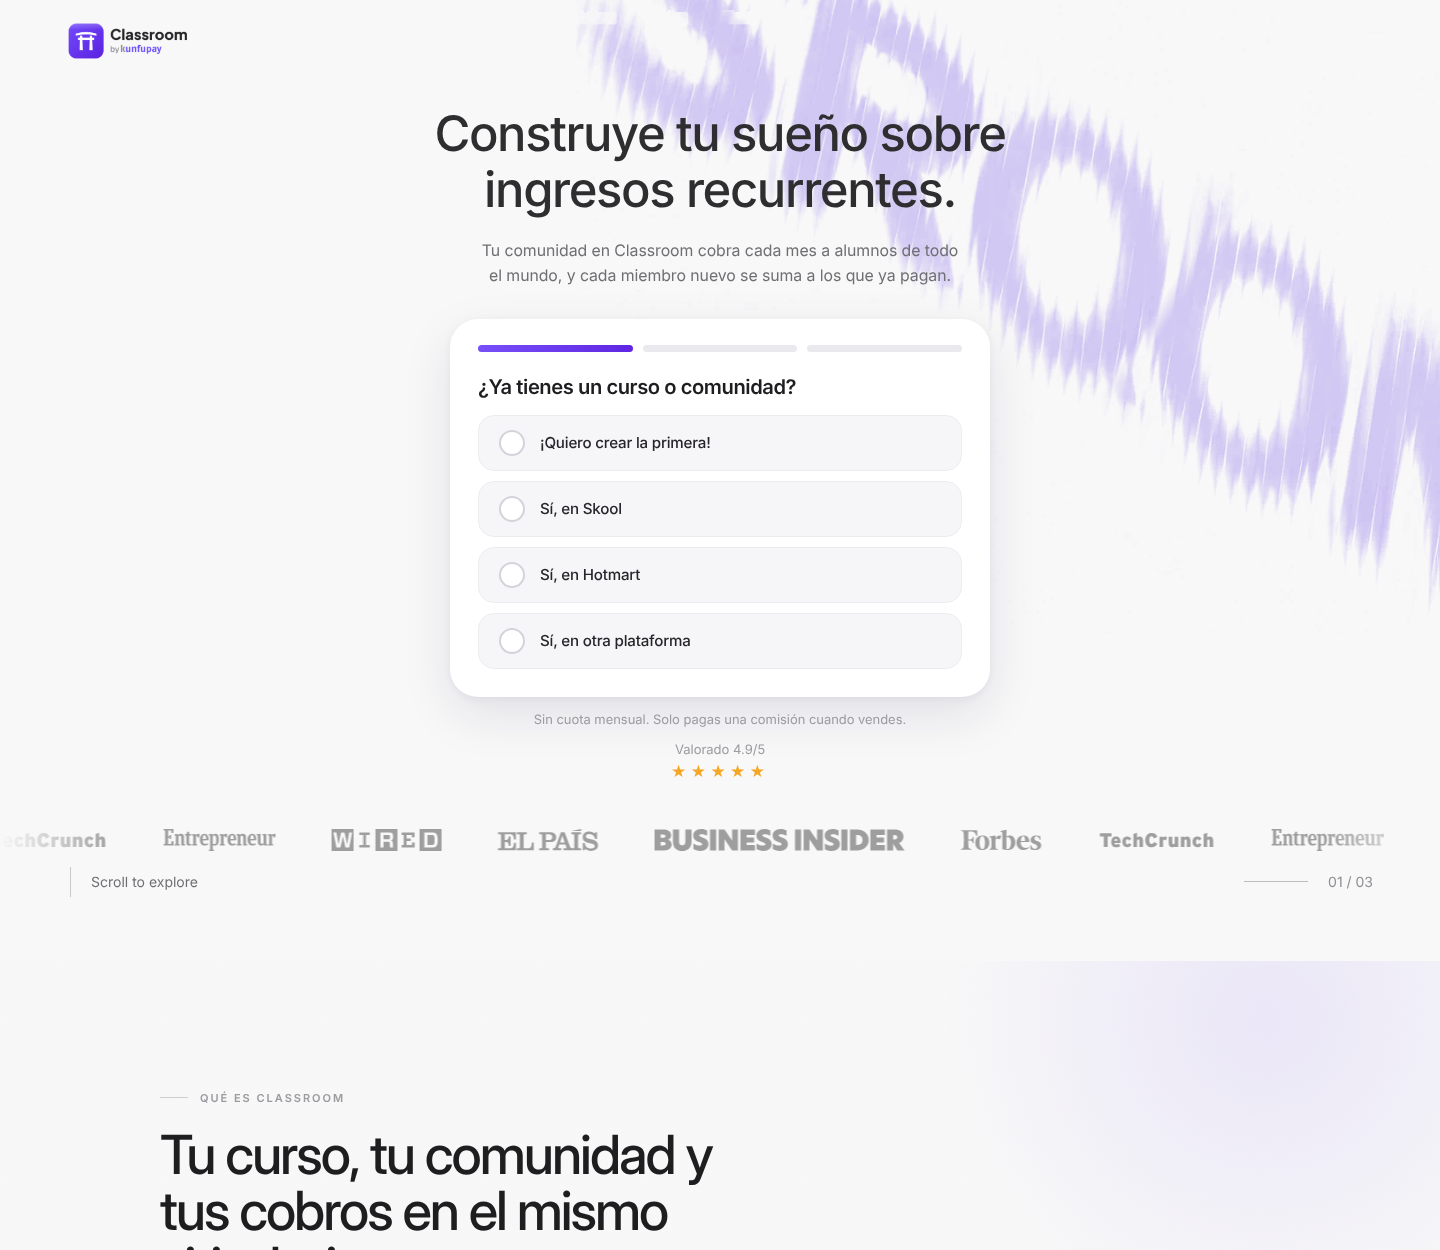
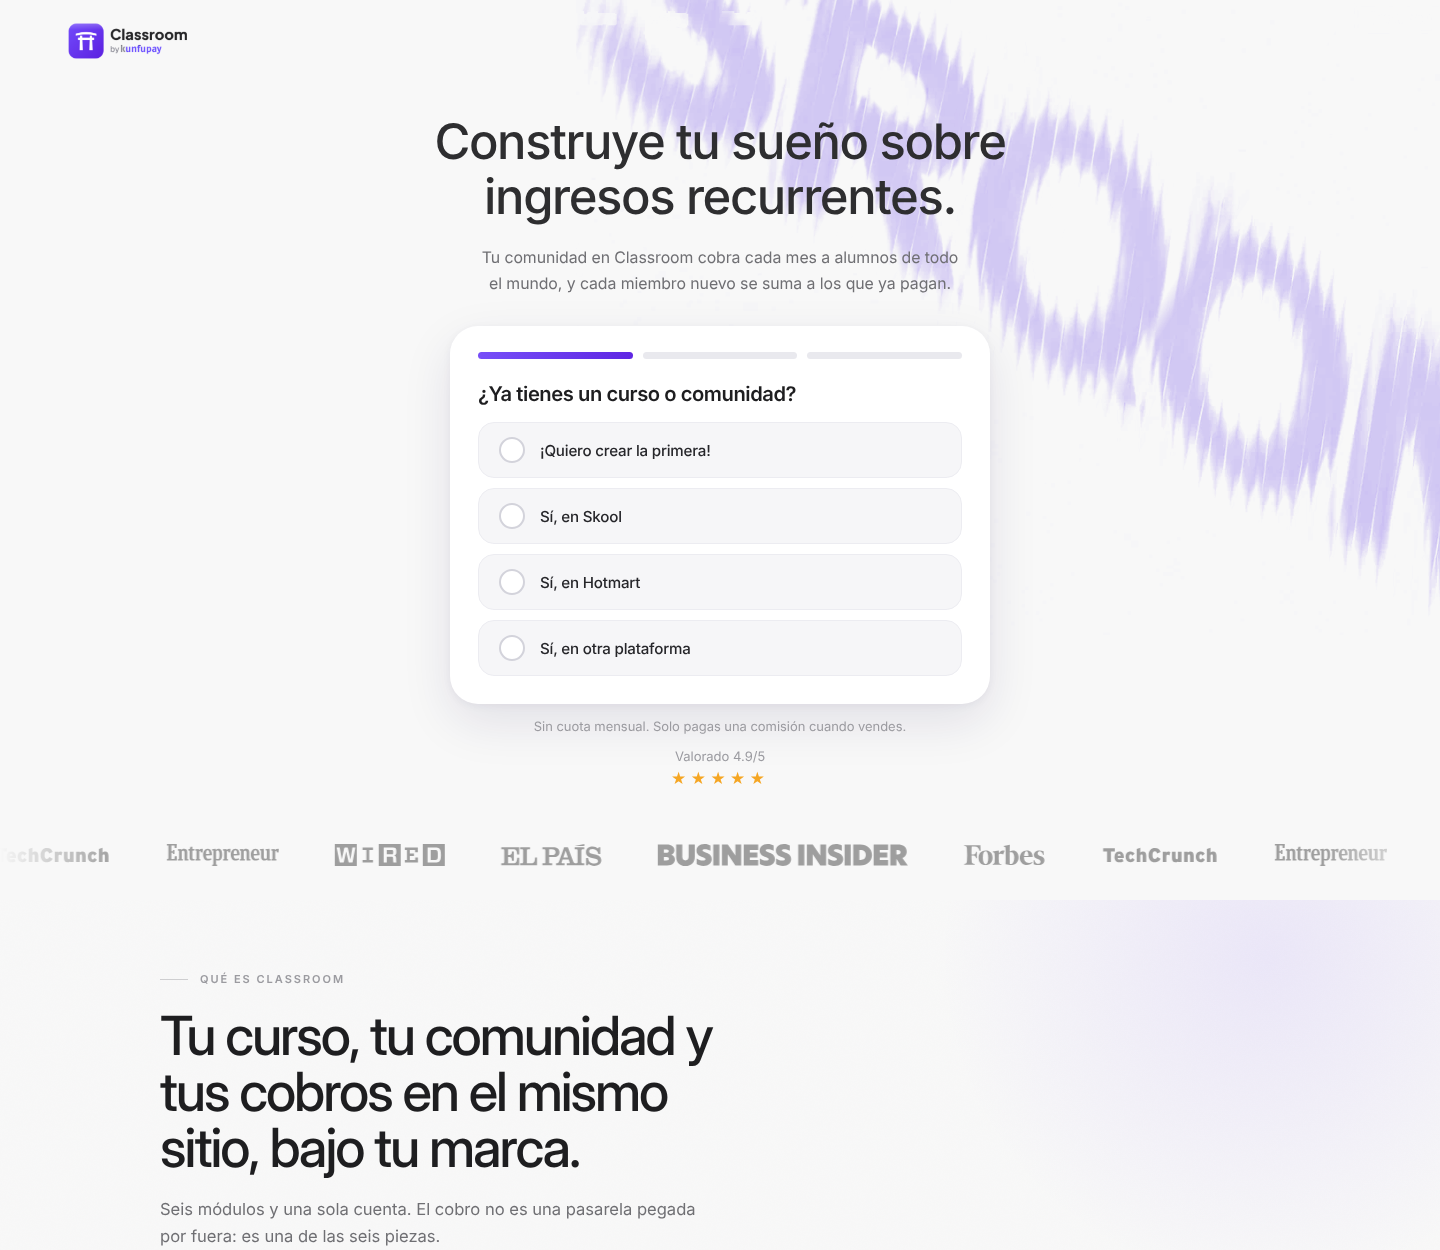
Ajusta el hero, la factura y la comparativa
Hero: fuera «Scroll to explore» y el «01 / 03», y la cinta de prensa pasa a
34 px de aire inferior, así la primera sección entra justo después en vez de
dejar media pantalla vacía.

Factura: las filas pasan a nombrar lo que la gente paga hoy —Shopify o
Stripe, Linktree Pro, Carrd o Leadpages, Kajabi/Skool/Hotmart, Revolut,
ChatGPT Plus y el alta de autónomo— con una etiqueta pequeña de qué cubre
cada una. El cero gigante lleva el símbolo de moneda en morado para que se
lea como precio y no como número suelto.

Comparativa: la columna de la izquierda queda apagada, con filetes y en gris,
y lo nuestro se va a un panel negro con las marcas en morado, su propio botón
blanco y un disco «vs» sobre la línea que las separa.

Los botones de sección van centrados y sin repetir debajo la misma letra
chica: solo la mantienen el formulario del hero y el cierre. Y los logos de
métodos de pago recuperan su color.

Claude-Session: https://claude.ai/code/session_01BnffaNzGrJ5zZy9uWCipoB

diff --git a/classroom-landing/index.html b/classroom-landing/index.html
@@ -284,7 +284,7 @@ body{
 .press{
   position:relative;
   z-index:1;
-  padding-bottom:110px;
+  padding-bottom:34px;
   overflow:hidden;
   -webkit-mask-image:linear-gradient(to right,transparent,#000 8%,#000 92%,transparent);
   mask-image:linear-gradient(to right,transparent,#000 8%,#000 92%,transparent);
@@ -311,20 +311,6 @@ body{
 }
 
 /* ---------- pie del hero ---------- */
-.hero-foot{
-  position:absolute;
-  left:0;right:0;bottom:64px;
-  z-index:1;
-  display:flex;
-  justify-content:space-between;
-  align-items:center;
-  padding:0 67px 0 70px;
-  pointer-events:none;
-}
-.hero-foot div{display:flex;align-items:center;gap:20px;font-size:14px;color:var(--muted)}
-.hero-foot .bar{width:1px;height:30px;background:#c9c9cc}
-.hero-foot .line{width:64px;height:1px;background:#bdbdc0}
-.hero-foot .pager{color:#8e8e93}
 
 /* ---------- móvil ---------- */
 @media (max-width:900px){
@@ -343,7 +329,6 @@ body{
   .press{padding-bottom:40px}
   .press__track{gap:38px}
   .press__track img{height:15px}
-  .hero-foot{display:none}
 }
 
 @media (prefers-reduced-motion:reduce){
@@ -362,8 +347,9 @@ body{
 }
 
 .wrap{width:min(1120px,100% - 56px);margin-inline:auto;position:relative;z-index:1}
-.block{position:relative;padding:clamp(76px,9vw,150px) 0}
+.block{position:relative;padding:clamp(64px,7vw,118px) 0}
 .block + .block{border-top:1px solid var(--line-2)}
+#producto{padding-top:clamp(42px,5vw,78px)}
 .block--tint{background:#f4f3f9}
 .block--ink{background:#0e0d12;color:#fff;border-top:0}
 .block::after{  /* textura fina, nada de degradados de IA */
@@ -446,8 +432,9 @@ html.js .kin.is-in .w{opacity:1;transform:none}
 .bill__dots{flex:1;border-bottom:1px dotted #cfccdb;transform:translateY(-4px)}
 .bill__row span:last-child{font-size:14.5px;color:var(--faint);font-variant-numeric:tabular-nums}
 .bill__row--own span:first-child{color:var(--ink-strong);font-weight:500}
-.bill__row--own em{margin-left:10px;font-style:normal;font-size:11px;letter-spacing:.1em;
-  text-transform:uppercase;color:var(--acc)}
+.bill__row em{margin-left:9px;font-style:normal;font-size:11px;letter-spacing:.1em;
+  text-transform:uppercase;color:#b2aec0}
+.bill__row--own em{color:var(--acc)}
 .bill__row--own span:last-child{color:var(--ink-soft)}
 .bill__total{display:flex;align-items:baseline;gap:12px;padding:20px 0 0;margin-top:4px;
   border-top:1px solid var(--ink-strong)}
@@ -458,7 +445,7 @@ html.js .kin.is-in .w{opacity:1;transform:none}
 .bill__ours{padding-top:6px}
 .bill__big{font-family:'Inter Display','Inter',sans-serif;font-size:clamp(76px,11vw,148px);font-weight:500;
   line-height:.84;letter-spacing:-.06em;color:var(--ink-strong);font-variant-numeric:tabular-nums}
-.bill__big sup{font-size:.2em;font-weight:500;letter-spacing:-.01em;vertical-align:super;color:var(--acc)}
+.bill__big sup{font-size:.26em;font-weight:500;letter-spacing:-.01em;top:-.55em;position:relative;color:var(--acc)}
 .bill__k{margin-top:18px;font-size:17px;line-height:1.5;color:var(--ink-soft);max-width:34ch}
 .bill__k b{color:var(--ink-strong);font-weight:500}
 .facts{display:flex;flex-wrap:wrap;gap:0;margin-top:clamp(36px,4vw,54px);border-top:1px solid var(--line)}
@@ -496,17 +483,28 @@ html.js .kin.is-in .w{opacity:1;transform:none}
 .player__list button[aria-current="true"] .bar{animation:fill var(--dur,4200ms) linear forwards}
 @keyframes fill{from{width:0}to{width:100%}}
 
-/* --- 4 · duelo en dos columnas --- */
-.duel{display:grid;grid-template-columns:1fr 1fr;margin-top:clamp(44px,5vw,70px);border-top:1px solid var(--line)}
-.duel__col{padding:28px 32px 32px 0}
-.duel__col + .duel__col{padding:28px 0 32px 32px;border-left:1px solid var(--line)}
-.duel__h{font-size:11px;letter-spacing:.16em;text-transform:uppercase;color:var(--faint);margin-bottom:22px}
-.duel__col--win .duel__h{color:var(--acc)}
-.duel li{display:flex;gap:14px;padding:14px 0;border-bottom:1px solid var(--line-2);
-  font-size:15.5px;line-height:1.45;color:var(--muted);list-style:none}
-.duel__col--win li{color:var(--ink-soft)}
-.duel li::before{content:"—";flex:none;color:#c6c3d2;font-size:13px;line-height:1.5}
-.duel__col--win li::before{content:"✓";color:var(--acc);font-size:12px;font-weight:700}
+/* --- 4 · duelo: lista apagada contra panel oscuro --- */
+.duel{position:relative;display:grid;grid-template-columns:1fr 1fr;gap:clamp(26px,4vw,64px);
+  margin-top:clamp(44px,5vw,70px);align-items:start}
+.duel__h{font-size:11px;letter-spacing:.16em;text-transform:uppercase;color:var(--faint);margin-bottom:6px}
+.duel__hoy{padding-top:26px;border-top:1px solid var(--line)}
+.duel__hoy li{display:flex;gap:14px;padding:16px 0;border-bottom:1px solid var(--line-2);
+  font-size:15.5px;line-height:1.45;color:#8f8b9c;list-style:none}
+.duel__hoy li::before{content:"";flex:none;width:13px;height:1px;background:#c6c3d2;margin-top:11px}
+.duel__panel{position:relative;padding:clamp(28px,3vw,40px);border-radius:14px;background:#121016;color:#fff;
+  margin-top:-10px;box-shadow:0 34px 80px rgba(18,16,22,.16)}
+.duel__panel::after{content:"";position:absolute;inset:0;border-radius:14px;pointer-events:none;
+  background-image:var(--grain);opacity:.06;mix-blend-mode:screen}
+.duel__panel .duel__h{color:#b49bff;margin-bottom:10px}
+.duel__panel ul{position:relative;z-index:1}
+.duel__panel li{display:flex;gap:14px;padding:16px 0;border-bottom:1px solid rgba(255,255,255,.1);
+  font-size:15.5px;line-height:1.45;color:#eceaf3;list-style:none}
+.duel__panel li:last-of-type{border-bottom:0}
+.duel__panel li::before{content:"✓";flex:none;color:#b49bff;font-size:12px;font-weight:700;line-height:1.5}
+.duel__panel .cta{position:relative;z-index:1;margin-top:22px}
+.duel__vs{position:absolute;left:50%;top:76px;transform:translate(-50%,-50%);z-index:3;
+  width:44px;height:44px;border-radius:50%;background:#fff;border:1px solid var(--line);
+  display:grid;place-items:center;font-size:11px;letter-spacing:.1em;text-transform:uppercase;color:var(--faint)}
 
 /* --- testimonios editoriales --- */
 .quotes{display:grid;grid-template-columns:repeat(3,1fr);margin-top:clamp(40px,4.5vw,64px);
@@ -529,8 +527,8 @@ html.js .kin.is-in .w{opacity:1;transform:none}
   mask-image:linear-gradient(90deg,transparent,#000 10%,#000 90%,transparent)}
 .tira__track{display:flex;align-items:center;gap:52px;width:max-content;animation:tira 46s linear infinite}
 .tira:hover .tira__track{animation-play-state:paused}
-.tira img{flex:none;height:20px;width:auto;filter:brightness(0) invert(.68);transition:filter .25s ease}
-.tira:hover img{filter:brightness(0) invert(.5)}
+.tira img{flex:none;height:22px;width:auto;opacity:.92;transition:opacity .25s ease,transform .25s ease}
+.tira img:hover{opacity:1;transform:translateY(-2px)}
 @keyframes tira{from{transform:translateX(0)}to{transform:translateX(-50%)}}
 
 /* --- 5 · faq oscura --- */
@@ -582,9 +580,9 @@ html.js .kin.is-in .w{opacity:1;transform:none}
   .mods{grid-template-columns:1fr}
   .mods > article{border-right:0 !important;padding:24px 0 26px}
   .mods .mk{right:2px;top:26px}
-  .duel{grid-template-columns:1fr}
-  .duel__col{padding:24px 0 26px}
-  .duel__col + .duel__col{padding:24px 0 26px;border-left:0;border-top:1px solid var(--line)}
+  .duel{grid-template-columns:1fr;gap:34px}
+  .duel__vs{position:static;transform:none;margin:0 auto}
+  .duel__panel{margin-top:0}
   .facts div{flex:1 1 100%;border-right:0;padding-right:0}
   .sticky{display:block}
   body{padding-bottom:78px}
@@ -765,10 +763,6 @@ html.js .kin.is-in .w{opacity:1;transform:none}
   </div>
 </section>
 
-<div class="hero-foot">
-  <div><span class="bar"></span><span>Scroll to explore</span></div>
-  <div><span class="line"></span><span class="pager">01 / 03</span></div>
-</div>
 </div><!-- /hero-shell -->
 
 <!-- ====================== 1 · PRODUCTO ====================== -->
@@ -800,11 +794,10 @@ html.js .kin.is-in .w{opacity:1;transform:none}
     <p class="quoteline rv">Y de aquí sale el «cada mes» del titular: <b>puedes crear links de pago único
       y suscripciones recurrentes desde el mismo panel.</b></p>
 
-    <div class="cta-wrap rv">
+    <div class="cta-wrap cta-wrap--center rv">
       <button class="cta cta--acc js-abrir-quiz" data-origen="producto">Crear mi Classroom
         <svg viewBox="0 0 16 16" fill="none" aria-hidden="true"><path d="M2 8h11M9 4l4 4-4 4"
           stroke="currentColor" stroke-width="1.6" stroke-linecap="round" stroke-linejoin="round"/></svg></button>
-      <p class="cta-nota">Sin cuota mensual · Sin permanencia · Alta en minutos</p>
     </div>
   </div>
 </section>
@@ -821,20 +814,20 @@ html.js .kin.is-in .w{opacity:1;transform:none}
 
     <div class="bill">
       <div class="bill__list rv">
-        <div class="bill__row"><span>Tienda</span><i class="bill__dots"></i><span>39 $/mes</span></div>
-        <div class="bill__row"><span>BioLink</span><i class="bill__dots"></i><span>15 $/mes</span></div>
-        <div class="bill__row"><span>Páginas</span><i class="bill__dots"></i><span>25 $/mes</span></div>
-        <div class="bill__row bill__row--own"><span>Classroom <em>la que vienes a buscar</em></span><i class="bill__dots"></i><span>99 $/mes</span></div>
-        <div class="bill__row"><span>KunfuCard</span><i class="bill__dots"></i><span>10 $/mes</span></div>
-        <div class="bill__row"><span>Sensei</span><i class="bill__dots"></i><span>20 $/mes</span></div>
-        <div class="bill__row"><span>Cuota de autónomo</span><i class="bill__dots"></i><span>300 $/mes</span></div>
-        <div class="bill__total"><span>Montarlo por separado</span>
+        <div class="bill__row"><span>Shopify o Stripe <em>tu tienda</em></span><i class="bill__dots"></i><span>39 $/mes</span></div>
+        <div class="bill__row"><span>Linktree Pro <em>tu bio</em></span><i class="bill__dots"></i><span>15 $/mes</span></div>
+        <div class="bill__row"><span>Carrd o Leadpages <em>tus páginas</em></span><i class="bill__dots"></i><span>25 $/mes</span></div>
+        <div class="bill__row bill__row--own"><span>Kajabi, Skool o Hotmart <em>tu aula</em></span><i class="bill__dots"></i><span>99 $/mes</span></div>
+        <div class="bill__row"><span>Revolut <em>tu tarjeta</em></span><i class="bill__dots"></i><span>10 $/mes</span></div>
+        <div class="bill__row"><span>ChatGPT Plus <em>tu IA</em></span><i class="bill__dots"></i><span>20 $/mes</span></div>
+        <div class="bill__row"><span>Alta de autónomo <em>para facturar</em></span><i class="bill__dots"></i><span>300 $/mes</span></div>
+        <div class="bill__total"><span>Lo que pagas hoy por separado</span>
           <b><span class="count" data-to="508">0</span> $/mes</b></div>
       </div>
 
       <div class="bill__ours rv" style="--d:120ms">
-        <p class="bill__big">0</p>
-        <p class="bill__k">de cuota al mes. Las siete herramientas vienen en la misma cuenta que tu
+        <p class="bill__big">0<sup>$</sup></p>
+        <p class="bill__k">al mes de cuota. Las siete piezas vienen en la misma cuenta que tu
           Classroom, y la comisión <b>solo entra cuando entra una venta</b>.</p>
       </div>
     </div>
@@ -849,11 +842,10 @@ html.js .kin.is-in .w{opacity:1;transform:none}
     <p class="note rv">Precios de referencia de los planes de entrada públicos de cada herramienta,
       consultados en 2026 — no incluyen las comisiones adicionales que cobra cada plataforma por venta.</p>
 
-    <div class="cta-wrap rv">
+    <div class="cta-wrap cta-wrap--center rv">
       <button class="cta js-abrir-quiz" data-origen="precio">Abrir mi cuenta gratis
         <svg viewBox="0 0 16 16" fill="none" aria-hidden="true"><path d="M2 8h11M9 4l4 4-4 4"
           stroke="currentColor" stroke-width="1.6" stroke-linecap="round" stroke-linejoin="round"/></svg></button>
-      <p class="cta-nota">Dos preguntas sobre tu negocio y dónde te dejamos la cuenta</p>
     </div>
   </div>
 </section>
@@ -898,11 +890,10 @@ html.js .kin.is-in .w{opacity:1;transform:none}
       <div><b>Mide con tu píxel</b><span>Google, Meta y TikTok, desde el propio curso.</span></div>
     </div>
 
-    <div class="cta-wrap rv">
+    <div class="cta-wrap cta-wrap--center rv">
       <button class="cta cta--acc js-abrir-quiz" data-origen="demo">Quiero que mi curso se vea así
         <svg viewBox="0 0 16 16" fill="none" aria-hidden="true"><path d="M2 8h11M9 4l4 4-4 4"
           stroke="currentColor" stroke-width="1.6" stroke-linecap="round" stroke-linejoin="round"/></svg></button>
-      <p class="cta-nota">Sin cuota mensual · Sin permanencia · Alta en minutos</p>
     </div>
   </div>
 </section>
@@ -917,19 +908,22 @@ html.js .kin.is-in .w{opacity:1;transform:none}
         internacional.</p>
     </div>
 
-    <div class="duel rv">
-      <div class="duel__col">
-        <p class="duel__h">Lo que usas hoy</p>
+    <div class="duel">
+      <div class="duel__hoy">
+        <p class="duel__h">Hoy, repartido</p>
         <ul>
-          <li>Cuota desde 99 $/mes, vendas o no*</li>
-          <li>Plataforma por un lado, cobro por otro</li>
-          <li>Métodos locales limitados fuera de EE. UU. y Europa</li>
-          <li>La factura y el papeleo, tuyos</li>
-          <li>Mudarte: lo haces tú</li>
+          <li class="rv" style="--d:0ms">Cuota desde 99 $/mes, vendas o no*</li>
+          <li class="rv" style="--d:60ms">La plataforma por un lado, el cobro por otro</li>
+          <li class="rv" style="--d:120ms">Métodos locales limitados fuera de EE. UU. y Europa</li>
+          <li class="rv" style="--d:180ms">La factura y el papeleo, tuyos</li>
+          <li class="rv" style="--d:240ms">Mudarte: lo haces tú</li>
         </ul>
       </div>
-      <div class="duel__col duel__col--win">
-        <p class="duel__h">Classroom by Kunfupay</p>
+
+      <span class="duel__vs" aria-hidden="true">vs</span>
+
+      <div class="duel__panel rv" style="--d:120ms">
+        <p class="duel__h">Con Classroom, junto</p>
         <ul>
           <li>Cero de cuota. Comisión solo cuando vendes</li>
           <li>Curso, comunidad y cobro en el mismo producto</li>
@@ -937,8 +931,12 @@ html.js .kin.is-in .w{opacity:1;transform:none}
           <li>Cada venta emite su factura sola, en el país que sea</li>
           <li>Creamos tu Classroom y migramos tu catálogo</li>
         </ul>
+        <button class="cta cta--light js-abrir-quiz" data-origen="comparativa">Cambiarme a Classroom
+          <svg viewBox="0 0 16 16" fill="none" aria-hidden="true"><path d="M2 8h11M9 4l4 4-4 4"
+            stroke="currentColor" stroke-width="1.6" stroke-linecap="round" stroke-linejoin="round"/></svg></button>
       </div>
     </div>
+
     <p class="note rv">* Precio de referencia de la categoría que Classroom sustituye (Kajabi, Skool o
       Hotmart), no el precio individual de cada una. De Skool y Kajabi no publicamos casillas que no
       podamos documentar.</p>
@@ -981,11 +979,10 @@ html.js .kin.is-in .w{opacity:1;transform:none}
       </div>
     </div>
 
-    <div class="cta-wrap rv">
+    <div class="cta-wrap cta-wrap--center rv">
       <button class="cta js-abrir-quiz" data-origen="prueba">Unirme a ellos
         <svg viewBox="0 0 16 16" fill="none" aria-hidden="true"><path d="M2 8h11M9 4l4 4-4 4"
           stroke="currentColor" stroke-width="1.6" stroke-linecap="round" stroke-linejoin="round"/></svg></button>
-      <p class="cta-nota">Sin cuota mensual · Sin permanencia · Alta en minutos</p>
     </div>
   </div>
 </section>
